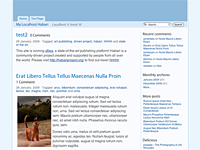
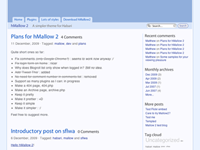
Added support for Colophon New Screenshot
git-svn-id: http://svn.habariproject.org/habari-extras/themes/hmallow2/trunk@2567 f4a90942-1786-4aa1-b092-57c31935ddc3

diff --git a/style.css b/style.css
@@ -940,7 +940,7 @@ color: #303030;
 	width: 150px;
 }
 
-#menu ul li,  #blogroll h2, #blogroll, #menu h3.subs, #menu #brightkite {
+#menu ul li, #menu ul li#colophon h2,  #blogroll h2, #blogroll, #menu h3.subs, #menu #brightkite {
 	color: #303030;
 	list-style-type: none;
 	padding-left: 0px;
@@ -950,7 +950,7 @@ color: #303030;
 	padding: 0;
 }
 
- #blogroll h2, #menu h3.subs {
+#menu ul li#colophon h2,  #blogroll h2, #menu h3.subs {
 	margin: 0;
 	padding: 0;
 }
@@ -967,7 +967,7 @@ color: #303030;
 }
 
 
-#menu ul li ul li, #blogroll ul li, #menu ul li.bkname, #menu ul li.bkaddress, #menu ul li.bkupdate, #menu ul li.bkmap  {
+#menu ul li#colophon p, #menu ul li ul li, #blogroll ul li, #menu ul li.bkname, #menu ul li.bkaddress, #menu ul li.bkupdate, #menu ul li.bkmap  {
 	padding-left: 0px;
     font-weight: normal;
 	list-style-type: none;

diff --git a/sidebar.php b/sidebar.php
@@ -5,6 +5,12 @@
 	<?php Plugins::act( 'theme_sidebar_top' ); ?>
 
 <ul>
+	
+<?php if (Plugins::is_loaded('TagCloud')) { ?>	
+	<li id="colophon">
+		<?php $theme->colophon(); ?>
+	</li>
+<?php } ?>
 
 	<li><?php _e('Recent comments'); ?>
 			<ul id="recentcomments">
